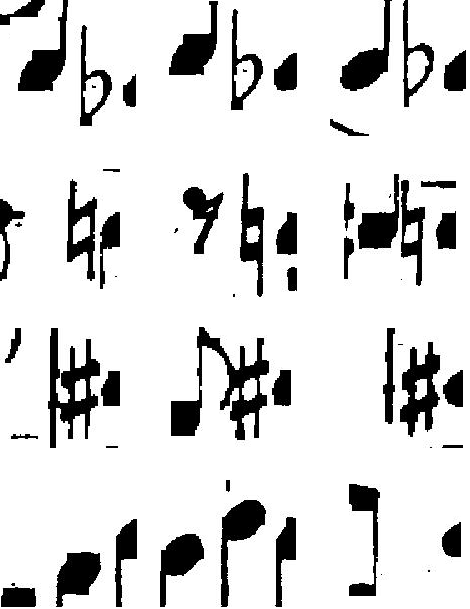
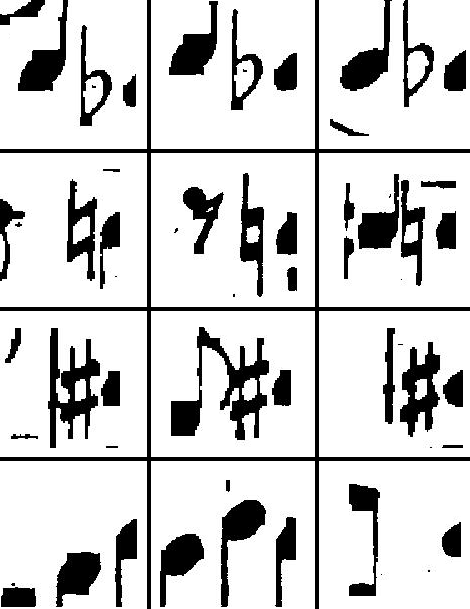
Updated documentation of Choi dataset and added grid to the sample image to make the individual samples better distinguishable.

Changed region(s): [[0.0, 0.0, 1.0, 1.0]]

diff --git a/README.md b/README.md
@@ -345,8 +345,8 @@ PrIMuS has been extended into the [Camera-PrIMuS dataset](https://grfia.dlsi.ua.
 [![License](https://img.shields.io/badge/License-Unknown-red.svg)](https://www-intuidoc.irisa.fr/en/choi_accidentals/)
 
 **Summary**: A dataset of 2955 small black and white images of accidentals (flat, natural, sharp) in context, including 968 images without accidentals (reject class). 
-Annotations are given the filename `{composer}-{page number}_{accidental class}_{window box}_{accidental box}_{note head box}.jpg` with
-the boxes in absolute coordinates, relative to the original music score page in the format: `{left}x{top}x{right}x{bottom}`.
+Annotations are included into the filename such as `{composer}-{page number}_{accidental class}_{window box}_{accidental box}_{note head box}.jpg` with
+the boxes containing absolute coordinates, relative to the original music score page in the format: `{left}x{top}x{right}x{bottom}`.
 
 **Example**:
 
